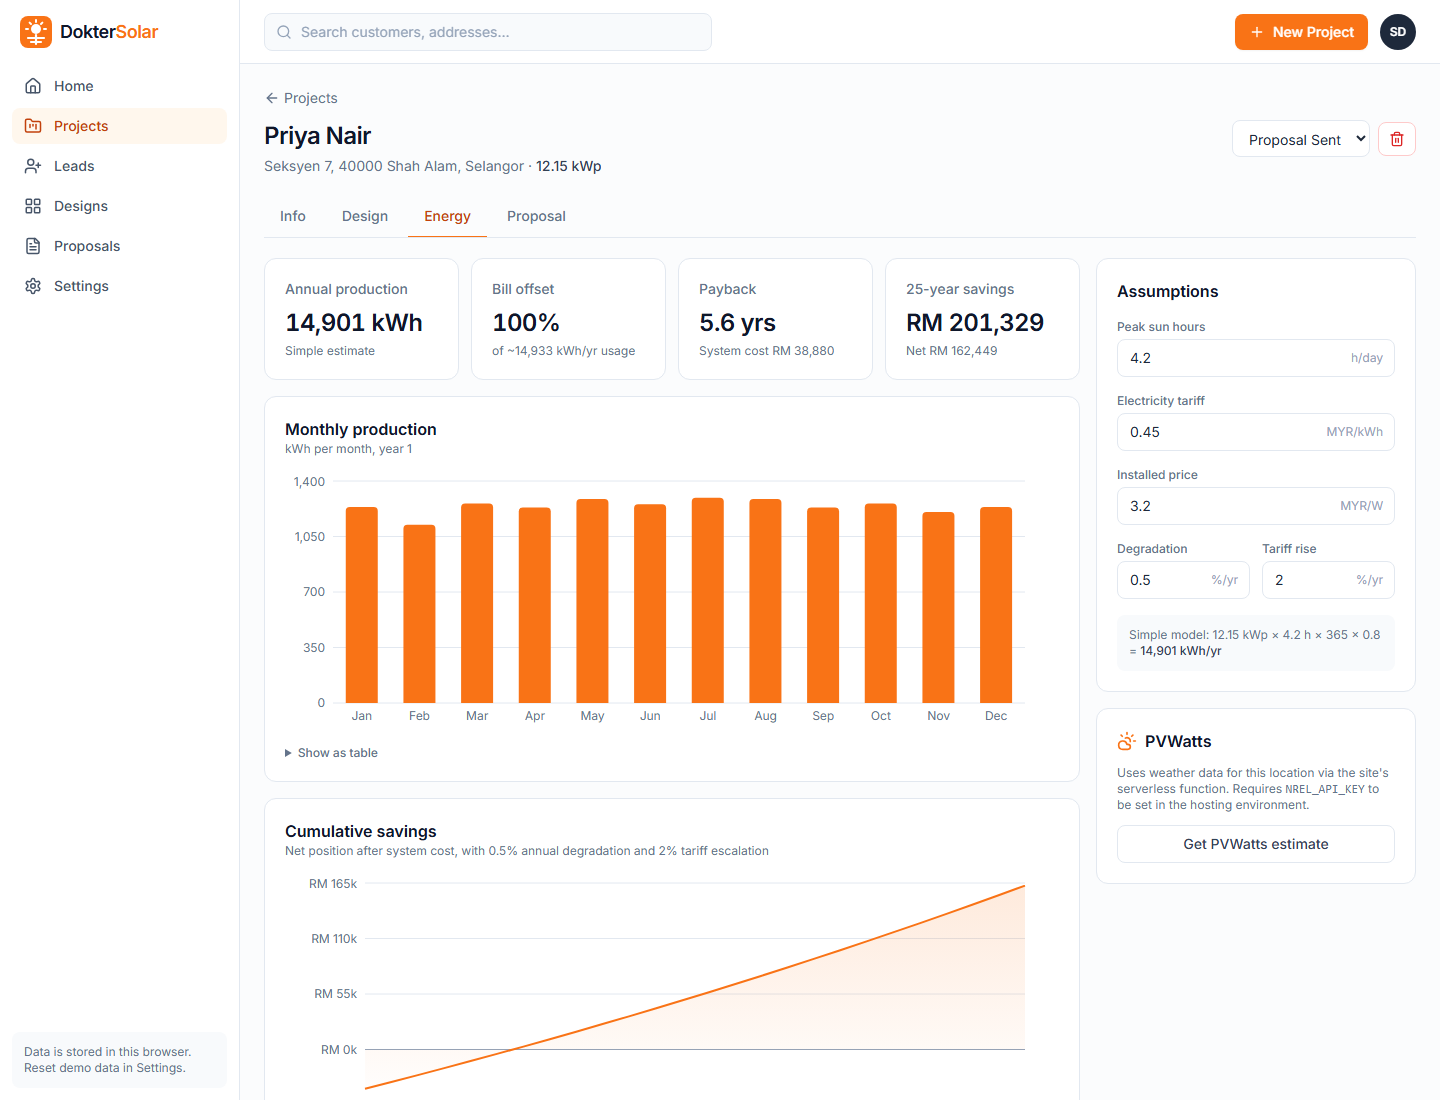
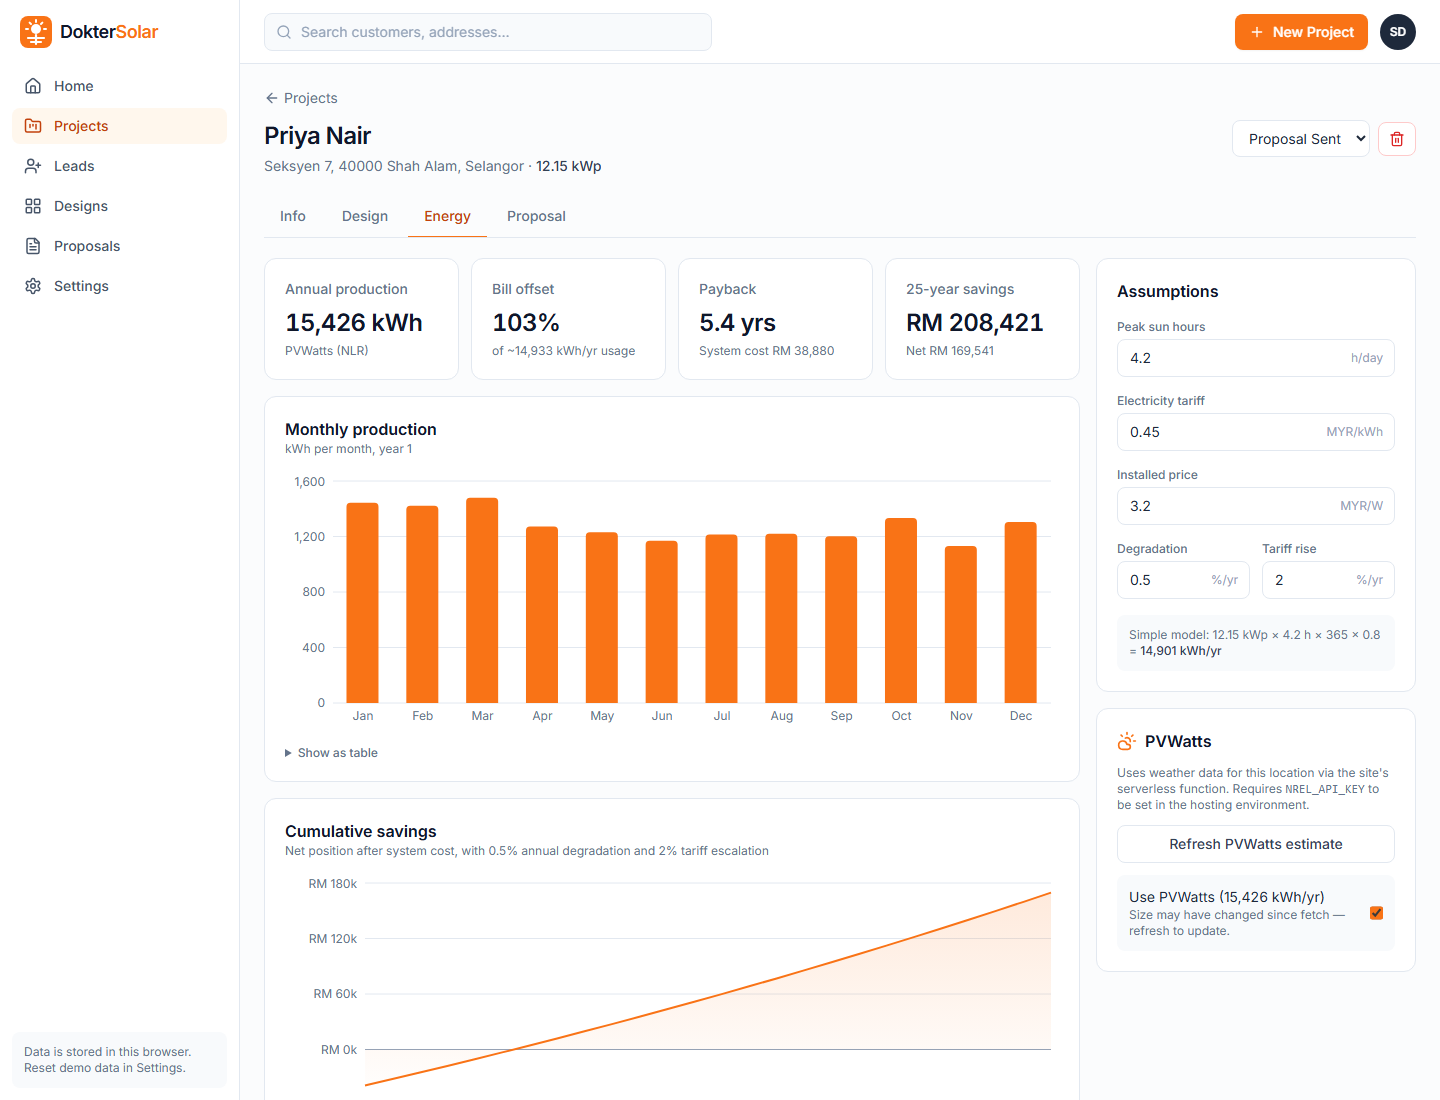
Re-shoot energy and proposal screenshots with PVWatts data

diff --git a/README.md b/README.md
@@ -16,7 +16,7 @@ A solar design and proposal studio: sketch a roof on satellite imagery, auto-fil
 
 ![Design tool with roof polygon and auto-filled panels](docs/screenshots/design-tool.png)
 
-**Energy & savings**: monthly production, payback, 25-year savings and editable assumptions.
+**Energy & savings**: monthly production, payback, 25-year savings and editable assumptions. Shown here with real weather-based figures from PVWatts (NLR) for Shah Alam.
 
 ![Energy and savings tab](docs/screenshots/energy.png)
 
